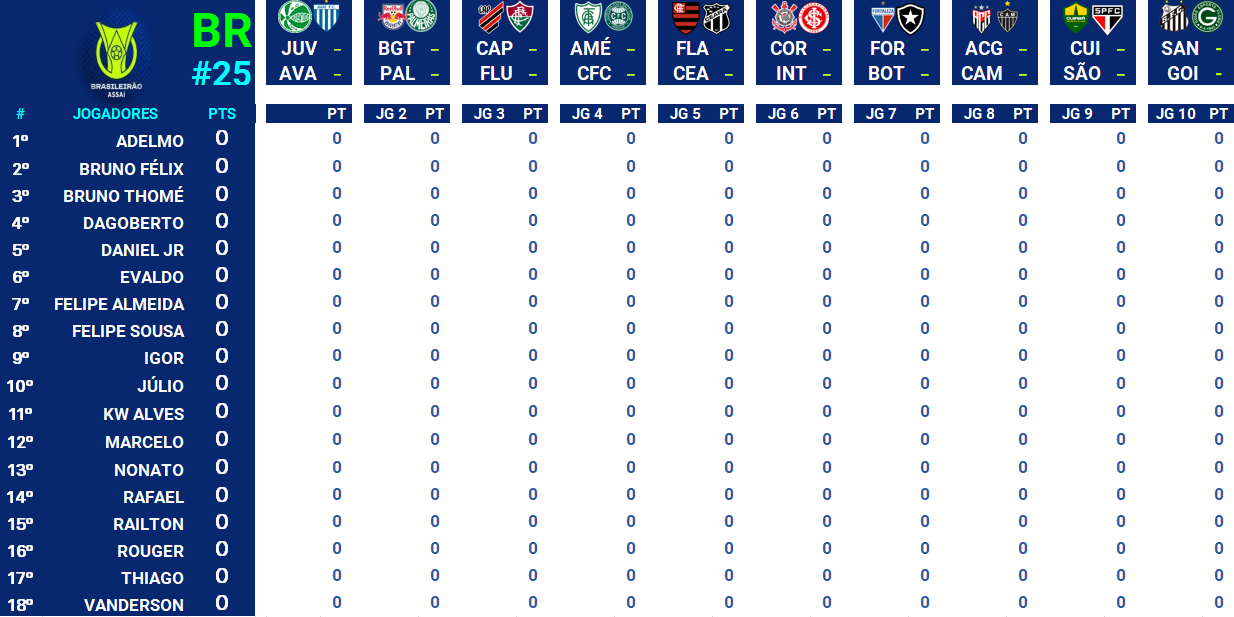
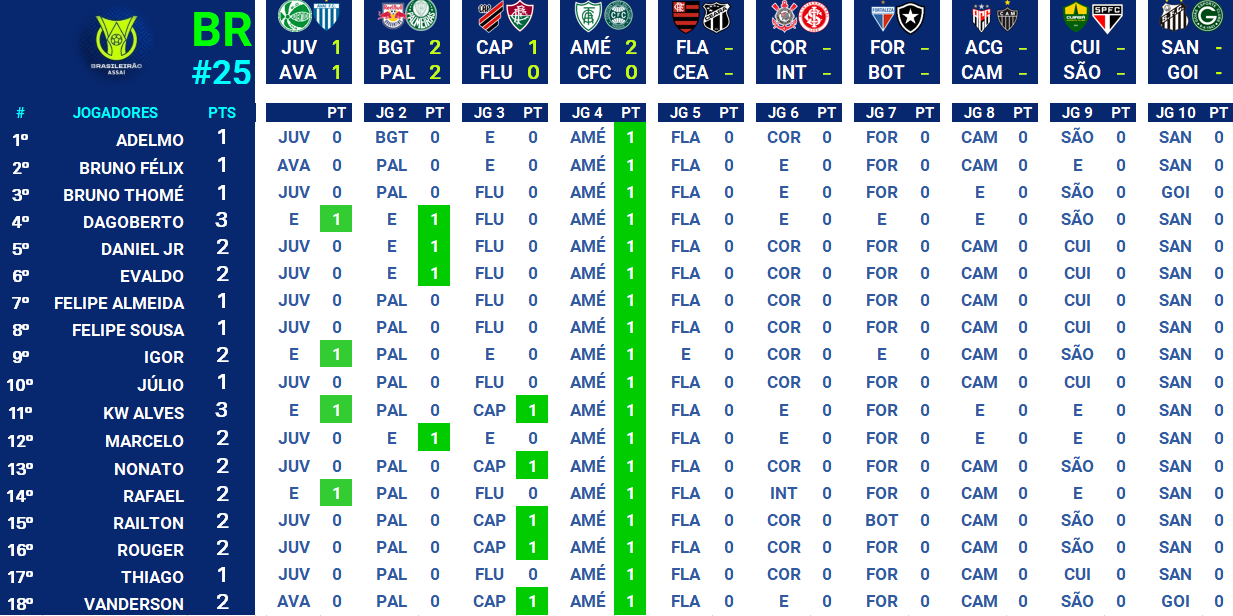
Atualização 25ª Rodada jogos de sábado

diff --git a/index.html b/index.html
@@ -51,16 +51,16 @@
         <div class="container grid">
           <div class="image">
             <img
-              src="./assets/fotos/mercadoaberto.png"
+              src="./assets/fotos/match25.PNG"
               alt="Logo do Campeonato Brasileiro 2022"
             />
           </div>
           <div class="text">
-            <h2 class="title"><a href="./palpites_25.html">25ª Rodada: Mercado aberto!</a></h2>
+            <h2 class="title"><a href="./predictor.html">25ª Rodada: Acompanhem os jogos e resultados aqui</a></h2>
             <p>
-              Bolão fecha neste sábado 03/09 às 16:30
+              A bola tá rolando...
             </p>
-           <a class="button" href="./palpites_25.html">PALPITEM NA 25ª RODADA</a>
+           <a class="button" href="./predictor.html">Resumo da 25ª Rodada</a>
           </div>
         </div>
       </section>
